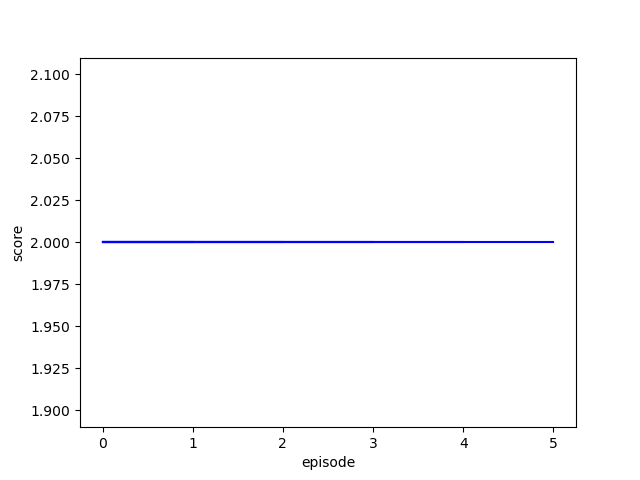
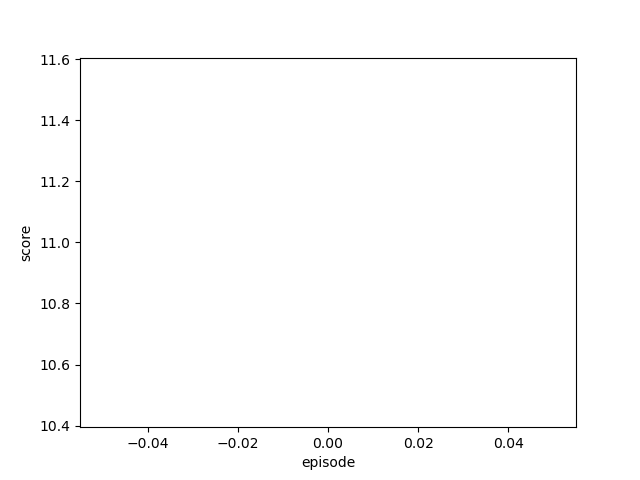
apply rewards on blocks

diff --git a/dss_environment.py b/dss_environment.py
@@ -10,15 +10,15 @@ W_UNIT = 15  # 픽셀 수
 WIDTH = 30  # 그리드 가로
 FLOOR = 17
 PhotoImage = ImageTk.PhotoImage
-AG = [11, 8, 7]  # z,y,x
-BOAT = ()
+AG = [15, 8, 27]  # z,y,x
 lifeboat_location_1 = [7, 3, 9]  # 7번째층,shelterDK , (9,3)
 lifeboat_location_2 = [7, 18, 9]  # 7번째층,shelterDK , (9,3)
-fire_location = [3, 3, 9]
-lifeboat_reward = 1
-fire_reward = -1
+fire_location = [25, 3, 9]
+lifeboat_reward = 10
+fire_reward = -2
 block_reward = -1
-
+up_stair_reward = 4
+down_stair_reward = -1
 
 maze = [
     [
@@ -470,10 +470,17 @@ class Env(tk.Tk):
         self.set_reward(lifeboat_location_1, lifeboat_reward)
         self.set_reward(lifeboat_location_2, lifeboat_reward)
         self.set_reward(fire_location, fire_reward)
+        for z in range(FLOOR):
+            for y in range(HEIGHT):
+                for x in range(WIDTH):
+                    if maze[z][y][x] == 1:
+                        self.set_reward([z, y, x], block_reward)
+                    if maze[z][y][x] == 2:
+                        self.set_reward([z, y, x], up_stair_reward)
         self.rectangle = self.canvas.create_image(place_tk(AG)[0],
                                                   place_tk(AG)[1],
                                                   image=self.shapes[0])  # 3D>2D
-        print(self.rewards)
+        # print(self.rewards)
         # print(self.goal)
 
     def _build_canvas(self):
@@ -483,22 +490,6 @@ class Env(tk.Tk):
         for z in range(FLOOR):
             for y in range(HEIGHT):
                 for x in range(WIDTH):
-                    if maze[z][y][x] == 1:
-                        for i in range(1, 6):
-                            if z == i:
-                                canvas.create_image(x * W_UNIT + W_UNIT / 2,
-                                                    (z - 1) * HEIGHT * H_UNIT + y * H_UNIT + H_UNIT / 2,
-                                                    image=self.shapes[5])
-                        for i in range(6, 11):
-                            if z == i:
-                                canvas.create_image(WIDTH * W_UNIT + x * W_UNIT + W_UNIT / 2,
-                                                    (z - 6) * HEIGHT * H_UNIT + y * H_UNIT + H_UNIT / 2,
-                                                    image=self.shapes[5])
-                        for i in range(11, FLOOR - 1):
-                            if z == i:
-                                canvas.create_image(2 * WIDTH * W_UNIT + x * W_UNIT + W_UNIT / 2,
-                                                    (z - 11) * HEIGHT * H_UNIT + y * H_UNIT + H_UNIT / 2,
-                                                    image=self.shapes[5])
                     if maze[z][y][x] == 0:
                         for i in range(1, 6):
                             if z == i:
@@ -515,22 +506,6 @@ class Env(tk.Tk):
                                 canvas.create_image(2 * WIDTH * W_UNIT + x * W_UNIT + W_UNIT / 2,
                                                     (z - 11) * HEIGHT * H_UNIT + y * H_UNIT + H_UNIT / 2,
                                                     image=self.shapes[6])
-                    if maze[z][y][x] == 2:
-                        for i in range(1, 6):
-                            if z == i:
-                                canvas.create_image(x * W_UNIT + W_UNIT / 2
-                                                    , (z - 1) * HEIGHT * H_UNIT + y * H_UNIT + H_UNIT / 2,
-                                                    image=self.shapes[2])
-                        for i in range(6, 11):
-                            if z == i:
-                                canvas.create_image(WIDTH * W_UNIT + x * W_UNIT + W_UNIT / 2,
-                                                    (z - 6) * HEIGHT * H_UNIT + y * H_UNIT + H_UNIT / 2,
-                                                    image=self.shapes[2])
-                        for i in range(11, FLOOR - 1):
-                            if z == i:
-                                canvas.create_image(2 * WIDTH * W_UNIT + x * W_UNIT + W_UNIT / 2,
-                                                    (z - 11) * HEIGHT * H_UNIT + y * H_UNIT + H_UNIT / 2,
-                                                    image=self.shapes[2])
 
         # 메인 격자
         for col in range(0, 3 * WIDTH * W_UNIT, W_UNIT):  # 0~400 by 80
@@ -571,8 +546,13 @@ class Env(tk.Tk):
         self.set_reward(lifeboat_location_1, lifeboat_reward)
         self.set_reward(lifeboat_location_2, lifeboat_reward)
         self.set_reward(fire_location, fire_reward)
-
-
+        for z in range(FLOOR):
+            for y in range(HEIGHT):
+                for x in range(WIDTH):
+                    if maze[z][y][x] == 1:
+                        self.set_reward([z, y, x], block_reward)
+                    if maze[z][y][x] == 2:
+                        self.set_reward([z, y, x], up_stair_reward)
 
     def set_reward(self, state, reward):  # 들어가는 state는 3D
 
@@ -580,16 +560,37 @@ class Env(tk.Tk):
         tk_x = place_tk(state)[0]
         tk_y = place_tk(state)[1]
 
-        if reward > 0:
+        if reward == lifeboat_reward:
             temp['reward'] = reward
             temp['figure'] = self.canvas.create_image(tk_x, tk_y, image=self.shapes[4])
             # print(reward, tk_x, tk_y)
             self.goal.append(temp['figure'])
         # 보상이 1이면 출력 4개
-        elif reward == -1:  # -1
+        elif reward == fire_reward:  # -1
             # temp['direction'] = -1
             temp['reward'] = reward
             temp['figure'] = self.canvas.create_image(tk_x, tk_y, image=self.shapes[3])
+        elif reward == block_reward:  # -1
+            if state[0] < 6:
+                temp['reward'] = reward
+                temp['figure'] = self.canvas.create_image(tk_x, tk_y, image=self.shapes[5])
+
+            if 5 < state[0] < 11:
+                temp['reward'] = reward
+                temp['figure'] = self.canvas.create_image(tk_x, tk_y, image=self.shapes[5])
+            if 10 < state[0] < 18:
+                temp['reward'] = reward
+                temp['figure'] = self.canvas.create_image(tk_x, tk_y, image=self.shapes[5])
+        elif reward == up_stair_reward:  # -1
+            if state[0] < 6:
+                temp['reward'] = reward
+                temp['figure'] = self.canvas.create_image(tk_x, tk_y, image=self.shapes[2])
+            if 5 < state[0] < 11:
+                temp['reward'] = reward
+                temp['figure'] = self.canvas.create_image(tk_x, tk_y, image=self.shapes[2])
+            if 10 < state[0] < 18:
+                temp['reward'] = reward
+                temp['figure'] = self.canvas.create_image(tk_x, tk_y, image=self.shapes[2])
         temp['coords'] = self.canvas.coords(temp['figure'])
         temp['state'] = state  # 입력을 그대로 3d
         # print(temp['state'])
@@ -637,7 +638,7 @@ class Env(tk.Tk):
         check = self.check_if_reward(next_coords)  # 2D > 3D
         done = check['if_goal']
         # if done == 1:
-        #     reward = check['rewards']
+        reward = check['rewards']
         # else :
         #     reward = 0
         # reward = check['rewards']
@@ -656,15 +657,21 @@ class Env(tk.Tk):
         states = list()
 
         for reward in self.rewards:  # 총8개 (장애물 1개 * 4, 목표 1개 * 4)
-            reward_location = reward['state']
-            states.append(reward_location[0] - location[0])  # 상대거리
-            states.append(reward_location[1] - location[1])  # 상대거리
-            states.append(reward_location[2] - location[2])  # 상대거리
-            if reward['reward'] < 0:
-                states.append(-1)
-                # states.append(reward['direction'])
-            else:
+            # states.append(reward['direction'])
+            if reward['reward'] == lifeboat_reward :
+                reward_location = reward['state']
+                states.append(reward_location[0] - location[0])  # 상대거리
+                states.append(reward_location[1] - location[1])  # 상대거리
+                states.append(reward_location[2] - location[2])  # 상대거리
                 states.append(1)
+            elif reward['reward'] == fire_reward :
+                reward_location = reward['state']
+                states.append(reward_location[0] - location[0])  # 상대거리
+                states.append(reward_location[1] - location[1])  # 상대거리
+                states.append(reward_location[2] - location[2])  # 상대거리
+                states.append(-1)
+            else:
+                pass
 
         return states
 
@@ -705,7 +712,7 @@ class Env(tk.Tk):
 
         base_action = np.array([0, 0])  # 앞뒤 , 좌우 , Tkinter
         location = self.find_rectangle(target)  # tkinter를 3차원으로
-        print(location)
+        # print(location)
         if action == 0 and location[2] < WIDTH - 1 and maze[location[0]][location[1]][location[2] + 1] != 1:
             base_action[0] += W_UNIT  # 앞
         elif action == 1 and location[2] > 0 and maze[location[0]][location[1]][location[2] - 1] != 1:

diff --git a/dss_train.py b/dss_train.py
@@ -90,7 +90,7 @@ if __name__ == "__main__":
         done = False
         score = 1
         # env 초기화
-        state = env.reset()  # 15개 변수
+        state = env.reset()  # 12개 변수
         state = np.reshape(state, [1, state_size])  # state_size = 12개
 
         while not done:
@@ -105,7 +105,7 @@ if __name__ == "__main__":
             # 샘플로 모델 학습
 
             agent.train_model(state, action, reward, next_state, next_action, done) # 12,1,1,12,1,1
-            if done == 1 :
+            if done == 1 : # 불만났을때 추가
                 score += reward
             state = next_state
 
